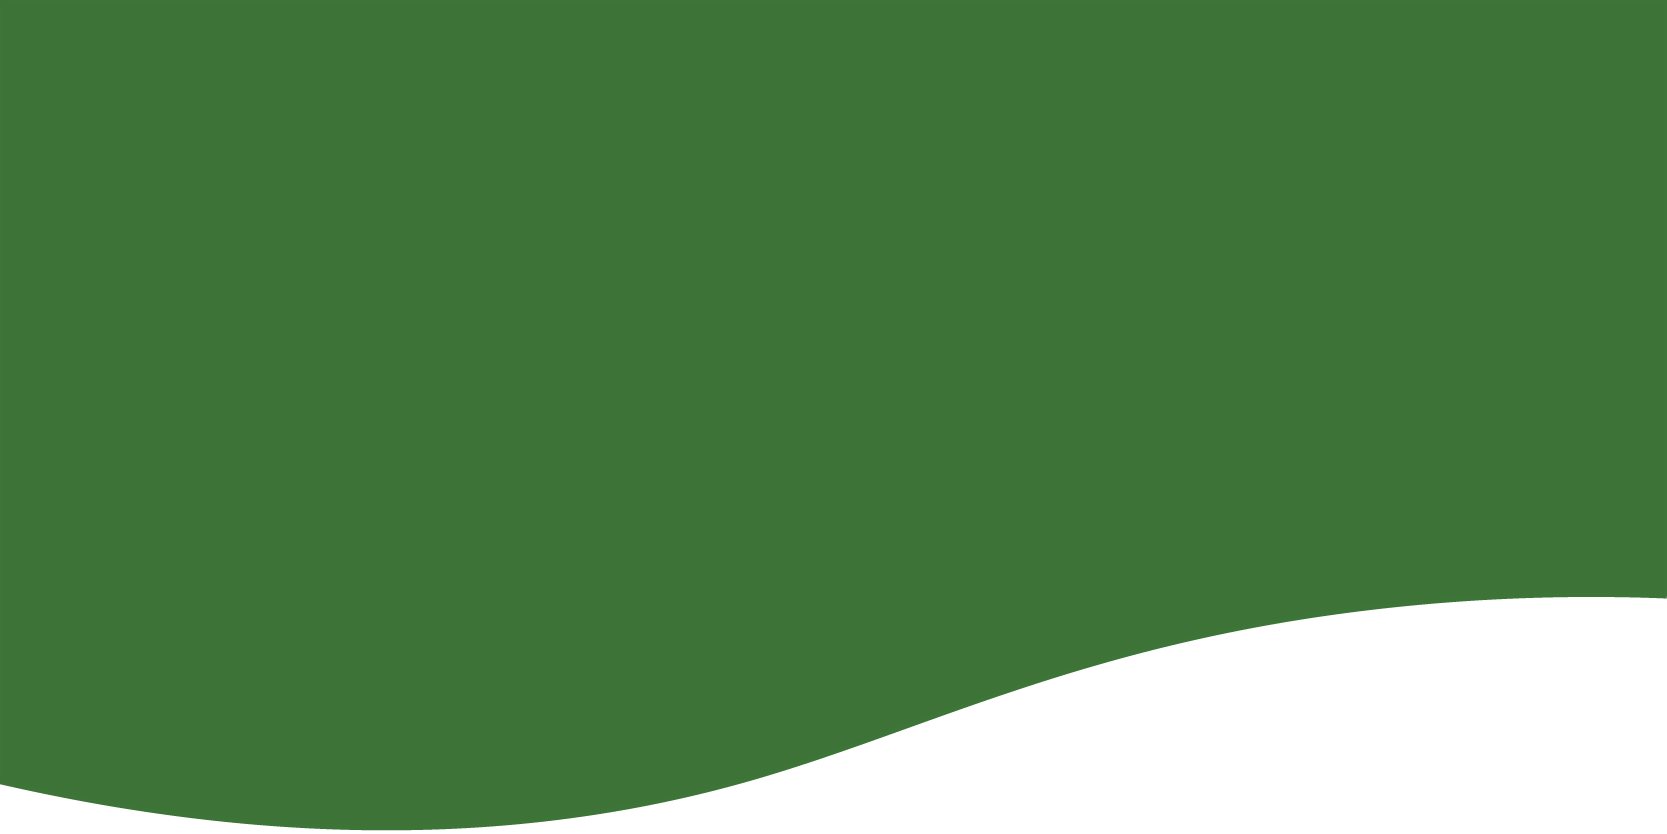
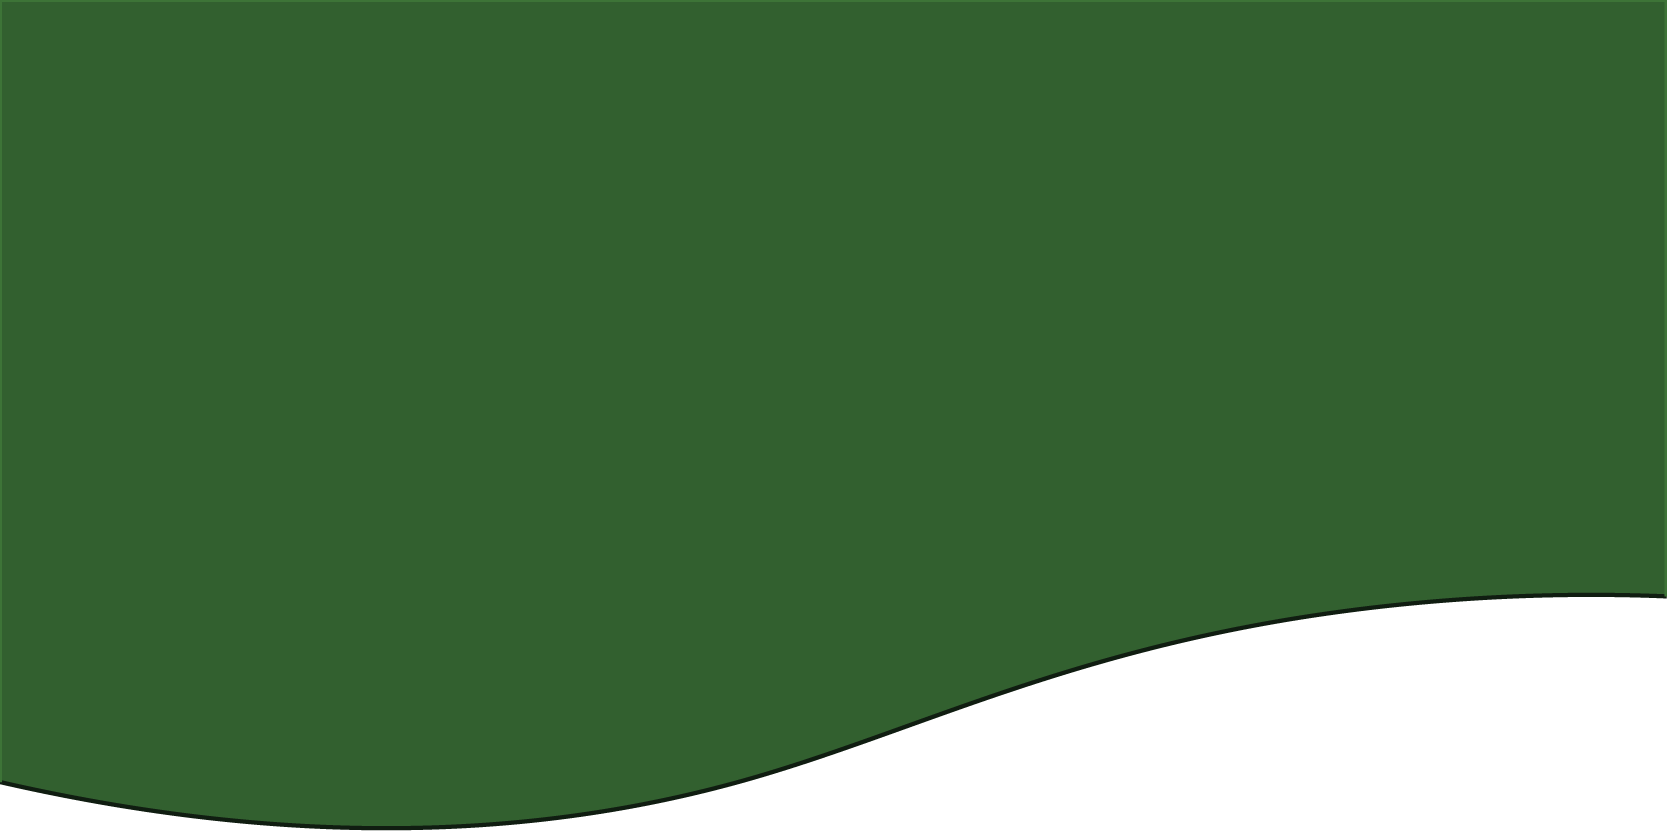
Fixing Colors

diff --git a/style.css b/style.css
@@ -8,12 +8,14 @@ body{
     font-size: 1em;
     line-height: 1.6em;
     font-family:'Times New Roman', Times, serif;
-    color: black;
+    /* color: black; */
+    color: beige;
 
     padding: 0;
     margin: 0 0 0px 0;
 
-    background-image: linear-gradient(to right, beige, rgb(217, 244, 193));
+    /* background-image: linear-gradient(to right, beige, rgb(217, 244, 193)); */
+    background-color: rgba(47,46,52,255);
     background-size: cover;
 }
 
@@ -39,9 +41,9 @@ body{
 
 
 .current{
-    background-color: #614028;
+    background-color: #3b200d;
     padding: 15% 10px 0px 10px;
-    border: solid black 3px;
+    border: solid #1f1107 3px;
     border-radius: 20px;
 }
 
@@ -88,7 +90,7 @@ body{
 #MIT{
 
 
-    border: solid #614028 5px;
+    border: solid #183219 5px;
     border-radius: 15px;
     background-color: #255128;
     color: beige;
@@ -132,22 +134,22 @@ body{
     position: relative;
     z-index: 1;
     /* background-color: #67c8c8; */
-    background-image: linear-gradient(to bottom, rgb(97, 198, 161), rgb(98, 175, 223));
+    background-image: linear-gradient(to bottom , rgb(69, 198, 151), rgb(67, 143, 190));
     /* padding: 0 0 0 0; */
     top: -200px;
     padding: 400px 0 0 25%;
 
-    border-bottom: #614028 solid 10px;
+    border-bottom: #3b200d solid 10px;
     border-radius: 20px;
     margin-bottom: -200px;    
 }
 #aboutMeTitle div{
     
     color: beige;
-    font-size: 1.4em;
+    font-size: 1.2em;
 
-    border: #614028 5px solid;
-    background-color: #809c52;
+    border: #3b200d 5px solid;
+    background-color: #357541;
 
     padding: 15px;
     width: fit-content;
@@ -161,9 +163,9 @@ body{
 #VR{
     max-width: 400px;
     position: relative;
-    border: solid #614028 5px;
+    border: solid #3b200d 5px;
     border-radius: 15px;
-    background-color: #449342;
+    background-color: #347743;
     color: beige;
     
     float:right;
@@ -184,7 +186,7 @@ body{
     }
     img{
         width: 60%;
-        border: black solid 5px;
+        border: rgb(3, 21, 5) solid 5px;
         border-radius: 10px;
 
         margin: 15px 18%;
@@ -194,8 +196,8 @@ body{
 /* CSI */
 #CSI {
     display:inline;
-    border: #614028 solid 5px;
-    background-color: #202e15;
+    border: #122412 solid 5px;
+    background-color: #1c3a1d;
     border-radius: 15px;
     position: relative;
     box-sizing: border-box;
@@ -210,7 +212,7 @@ body{
         float: left;
         width: 100px;
         margin: 20px;
-        border: solid #614028 5px;
+        border: solid #122412 5px;
         border-radius: 10px;
     }
     h1{
@@ -225,9 +227,9 @@ body{
 }
 /* APR */
 #APR {
-    border: #614028 solid 5px;
+    border: #3b200d solid 5px;
     border-radius: 20px;
-    background-color: #809c52;
+    background-color: #347743;
 
     display: inline;
     float: left;
@@ -265,11 +267,11 @@ body{
     width: 100%;
     
     /* max-height: 100px; */
-    background-color: #202e15;
+    background-color: #152e17;
     color: beige;
 
 
-    border-top: solid #614028 5px;
+    border-top: solid #082406 5px;
     border-top-right-radius: 10px;
     border-top-left-radius: 10px;
 
@@ -304,7 +306,7 @@ body{
 
 
 #projectsS {
-    background-color: #1e5f28f3;
+    background-color: #2a5c34;
     color: beige;
 
     width: 50%;
@@ -314,7 +316,7 @@ body{
     margin: 0 0 10px 5%;
     padding: 15px 0;
 
-    border: #614028 solid 5px;
+    border: #12351a solid 5px;
     border-radius: 15px;
 
     text-align: center;
@@ -331,14 +333,14 @@ body{
         width: 25px;
         padding: 2px;
         margin: 0 5px;
-        background-color: rgba(173, 216, 230, 0.6);
-        border: #614028 solid 2px;
+        background-color: rgba(42, 130, 160, 0.6);
+        border: #0c2d14 solid 2px;
         border-radius: 15px;
     }
-    img:hover { background-color: rgba(181, 209, 218, 0.87) }
+    img:hover { background-color: rgba(57, 166, 202, 0.87) }
     img:active {
         margin-top: 2px;
-        background-color: #614028;
+        background-color: #33dfdd;
     }
     table {
         width: 100%;
@@ -346,25 +348,25 @@ body{
         border-collapse: collapse;
     }
     td { width: 50%; padding: 5px;}
-    tr {border-bottom: 1px solid #614028; }
+    tr {border-bottom: 1.5px solid #13451d; }
     th { padding: 10px 0; font-size: 1.2em;}
     tr:hover {background-color: rgba(255, 255, 255, 0.15);}
 
 
 
-    hr { border: solid #614028 2px; border-radius: 5px; margin-top: 20px;}
+    hr { border: solid #12351a 2px; border-radius: 5px; margin-top: 20px;}
 
 }
 
 
 #projectsA {
-    background-color: #614028;
+    background-color: #422714;
     float: right;
     width: 30%;
     position: relative;
     margin: 30px 5% 0 0;
     padding: 10px;
-    border: #202e15 solid 5px;
+    border: #2c1a0d solid 5px;
     border-radius: 50px;
     h1 {
         color: beige;
@@ -376,47 +378,48 @@ body{
 #projectsT {
     width: 100%;
     margin: 175px 0 15px 0;
-    border: 5px solid #614028;
-    background-color: gray;
+    border: 5px solid #3b200d;
+    background-image: linear-gradient(to right , rgb(21, 82, 60), rgb(13, 55, 83));
 
     img {
         height: 200px;
-        border: #614028 4px solid;
+        border: #1f1107 2px solid;
         border-radius: 15px;
         margin: 5px;
     }
     #imgX {                                                                            
         position: absolute;
         width: 30px;
-        height: auto;
+        height: 30px;
         top: 15px;
         right: 15px;
-        border: #614028 3px solid;
+        border: #092911 3px solid;
         border-radius: 50%;
-        background-color: rgba(181, 209, 218, 1);
+        background-color: rgba(42, 130, 160, 0.6);
     }
     #imgX:hover {
-        background-color: rgba(173, 216, 230, 0.8);
+        background-color: rgba(122, 178, 197, 0.6);
     }
     #imgX:active {
-        background-color: rgba(173, 216, 230, 0.6);
+        background-color: rgba(129, 158, 167, 0.6);
     
     }
     h1 {
-        background-color: #202e15;
+        background-color: #082b0a;
         padding: 25px 40px;
         box-sizing: border-box;
-        color: #809c52;
+        color: #357541;
         width: 100%;
         margin: 0 0 0 0;
     }
     h2 {
         padding: 10px;
-        background-color: teal;
+        /* background-color: rgb(67, 143, 190); */
+        background-image: linear-gradient(to bottom , rgb(77, 127, 158), rgb(67, 143, 190));
 
         flex: 1;
         margin: 0px 0 10px 0;
-        border: #614028 2px solid;
+        border: #301a0a 2px solid;
     }
     h3 {
         margin: 10px 15px;
@@ -431,8 +434,7 @@ body{
 
     float: left;
     box-sizing: border-box;
-    border: 3px solid rgba(173, 216, 230, 0.9);
-
+    border: 3px solid rgba(44, 24, 11, 0.9);
     background-size: cover;
     background-repeat: no-repeat;
 }
@@ -471,8 +473,8 @@ body{
 
 }
 .hidden {
-    background-color: #809c52;
-    border: #614028 solid 5px;
+    background-color: #357541;
+    border: #301a0a solid 5px;
     border-radius: 10px;
 
     position: absolute;

diff --git a/main.js b/main.js
@@ -148,7 +148,7 @@ setInterval(() => {
             dropP.style.display = "inherit";
             dropI.style.transform = "scaleY(-1)";
 
-            if(heightD < 37) {
+            if(heightD < 40) {
                 heightD += heightA;
                 if(heightA > 0.3) heightA -= 0.08;
                 document.querySelector("#projectsS").style.maxHeight = `${heightD}em`;
